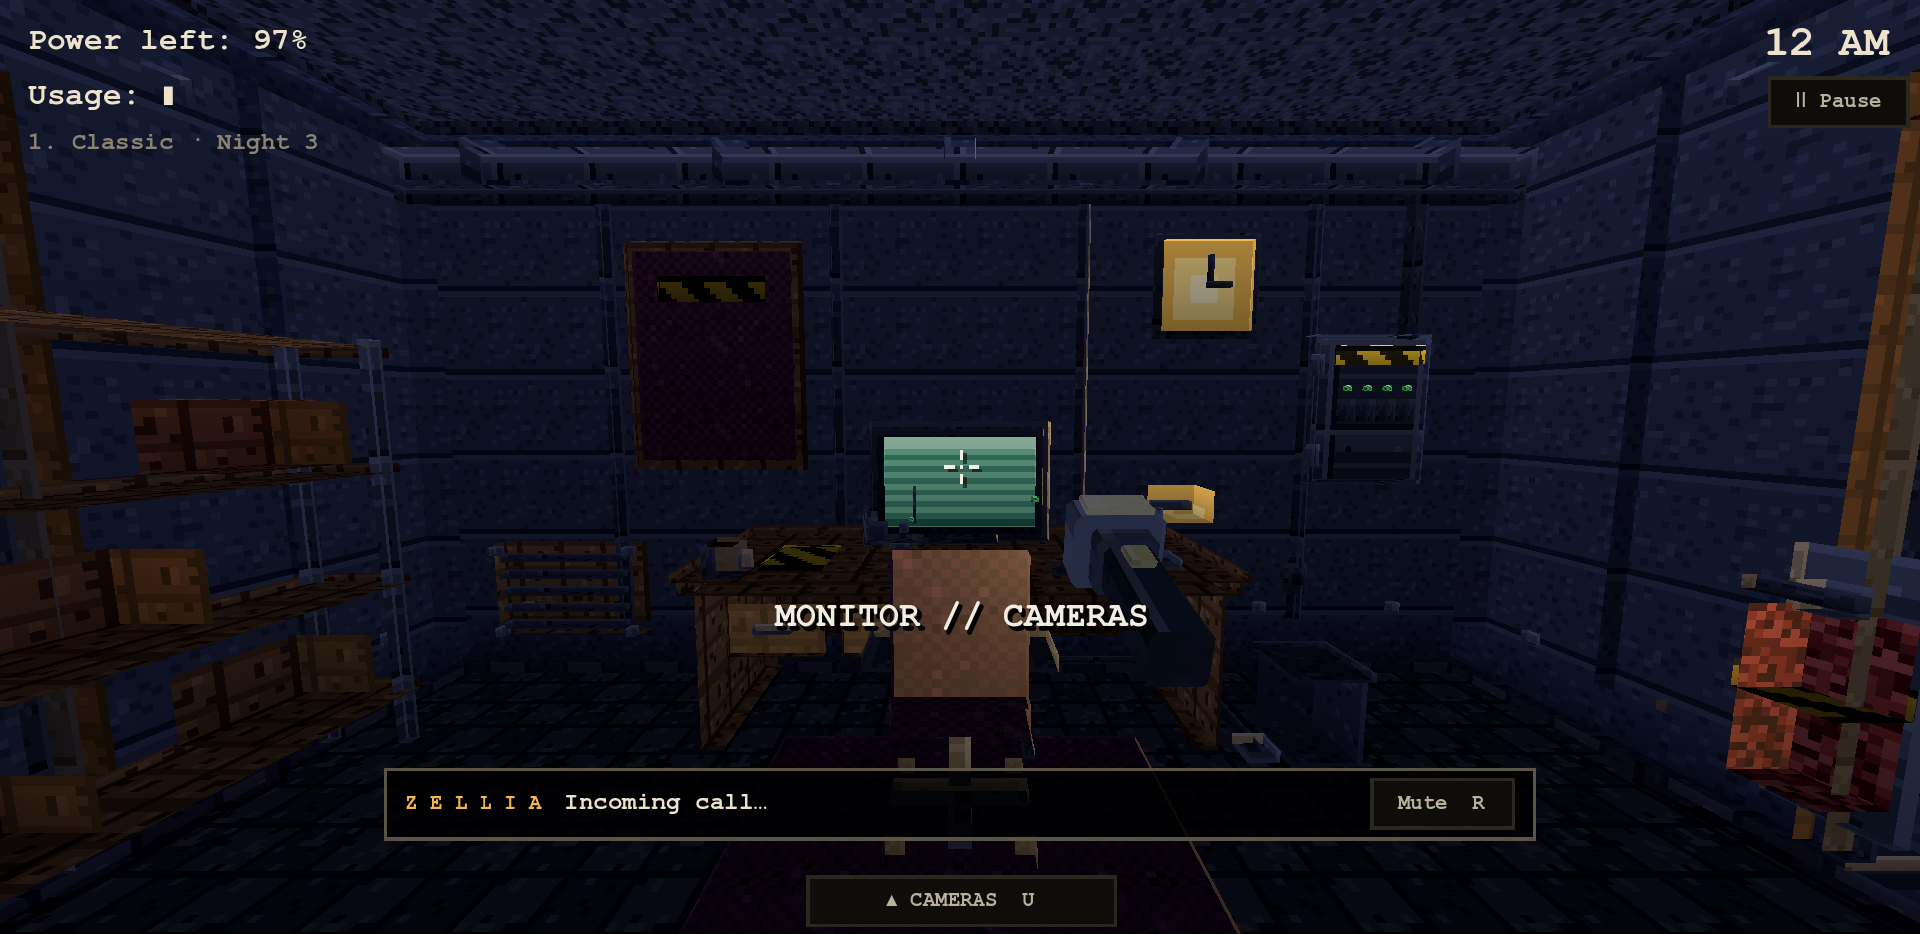
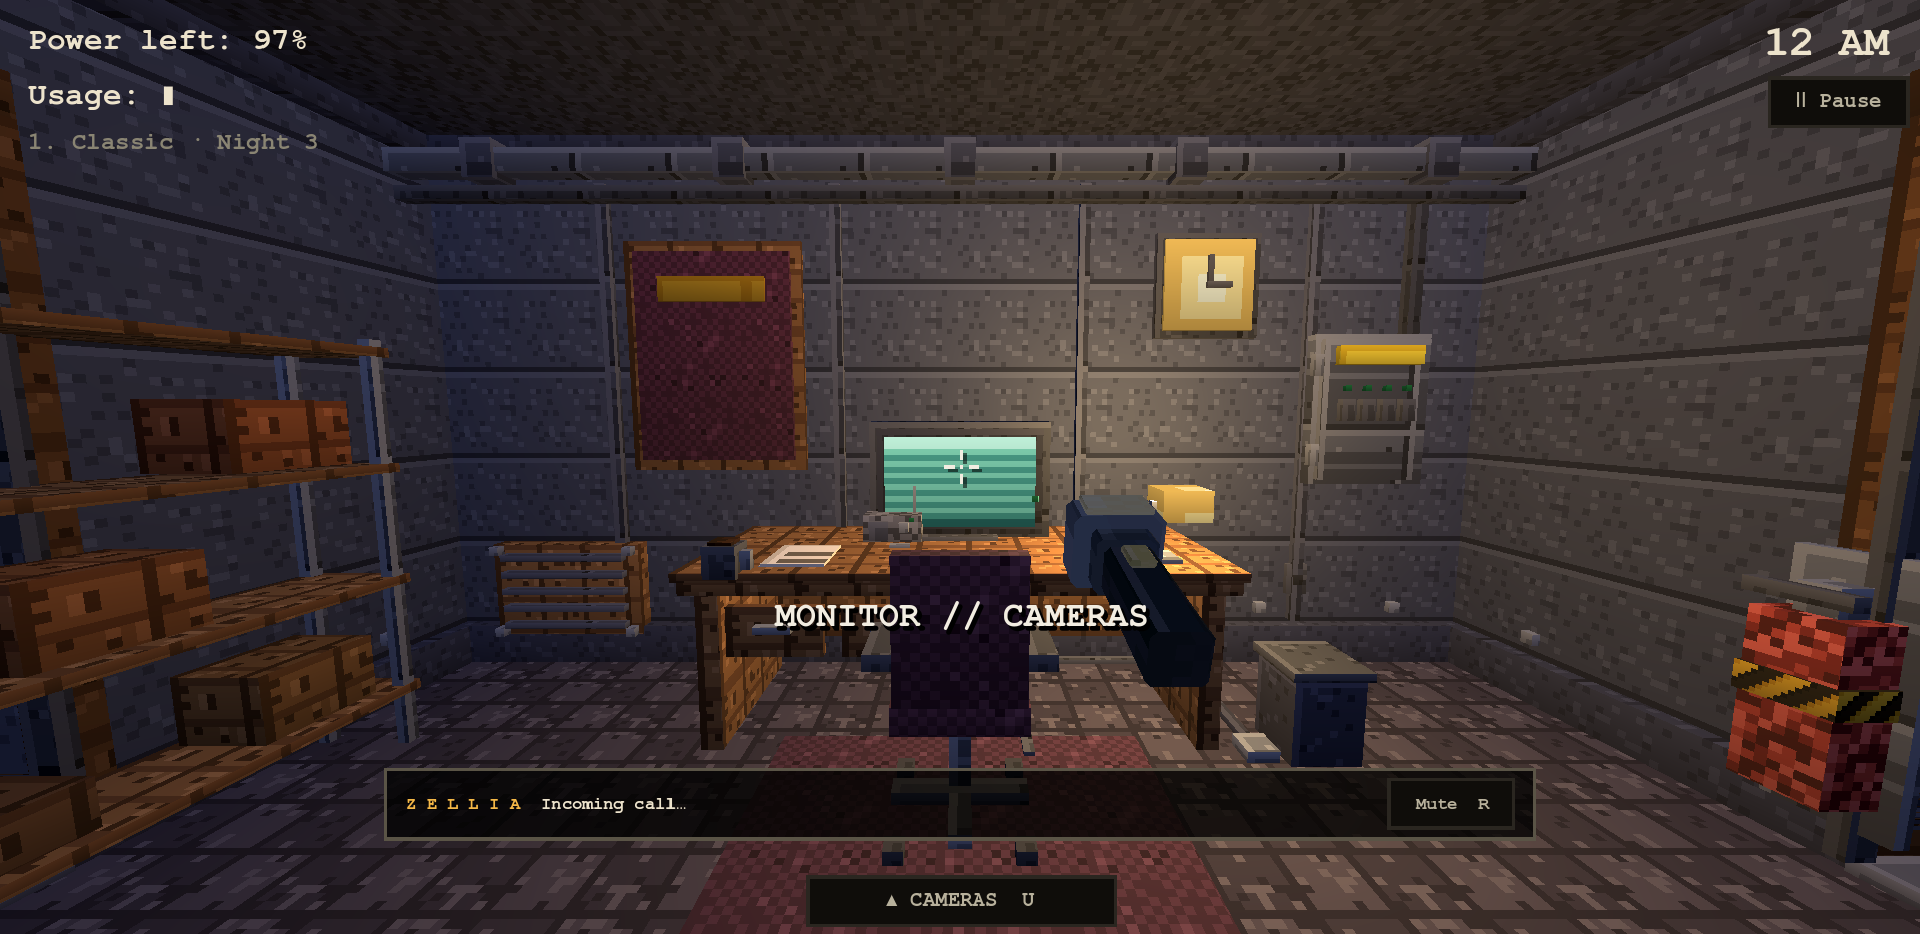
Night Watch HUD: Zellia's call text, name and Mute at the 2D size (5 px of 270 instead of 7/6)

diff --git a/docs/NIGHT_WATCH_UI_PARITY.md b/docs/NIGHT_WATCH_UI_PARITY.md
@@ -74,3 +74,8 @@ rebinds had nowhere to live.
   presses cycle through all cameras and wrap, each of 1-8 and the number pad picks its camera, the d-pad cycles, camera keys do nothing with the monitor down or
   while paused, keys work after pause/resume and after leaving and re-entering the monitor, use closes it, three open/close rounds, the old `office_camera_n`
   actions are ignored, a rebound key shows in the hint line, persists, and works.
+
+## Call subtext size
+
+The call text (and the ZELLIA name and Mute button) are now 5 px on the 480x270 base (they were 7 / 6 / 6): the 2D box is `.ncall { font-size: .7em }` of the stage's `2.6cqh`, i.e. 1.8% of the screen height (4.9 px of 270), so 7 was 1.4x too big. The box scales with the viewport (canvas_items), so it is 13 px at 1280x720 and 20 px at 1920x1080; the text wraps inside the box and never meets the name or the Mute button (`night_watch_calls` checks the box and `hud_overlap` the HUD).
+![before and after](night_watch_ui/call_font_before_after.png)
